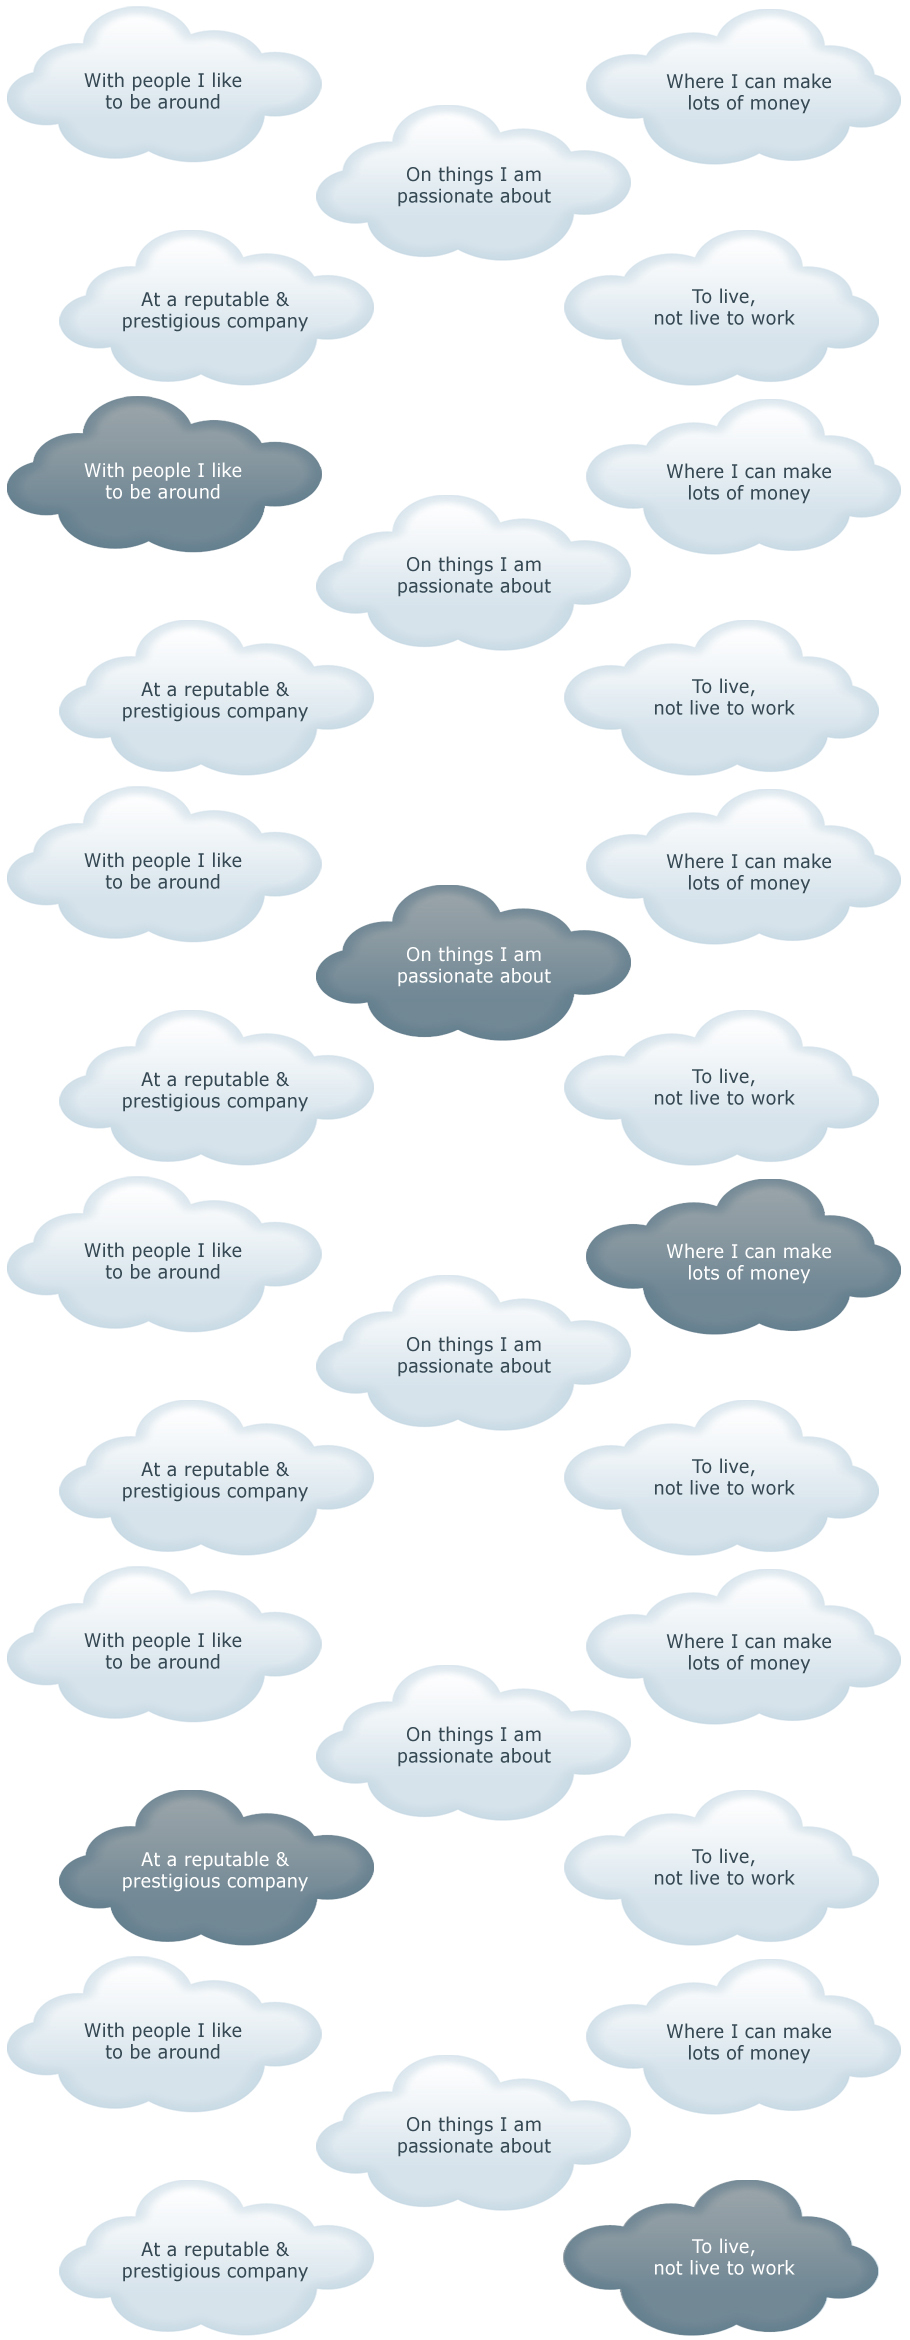
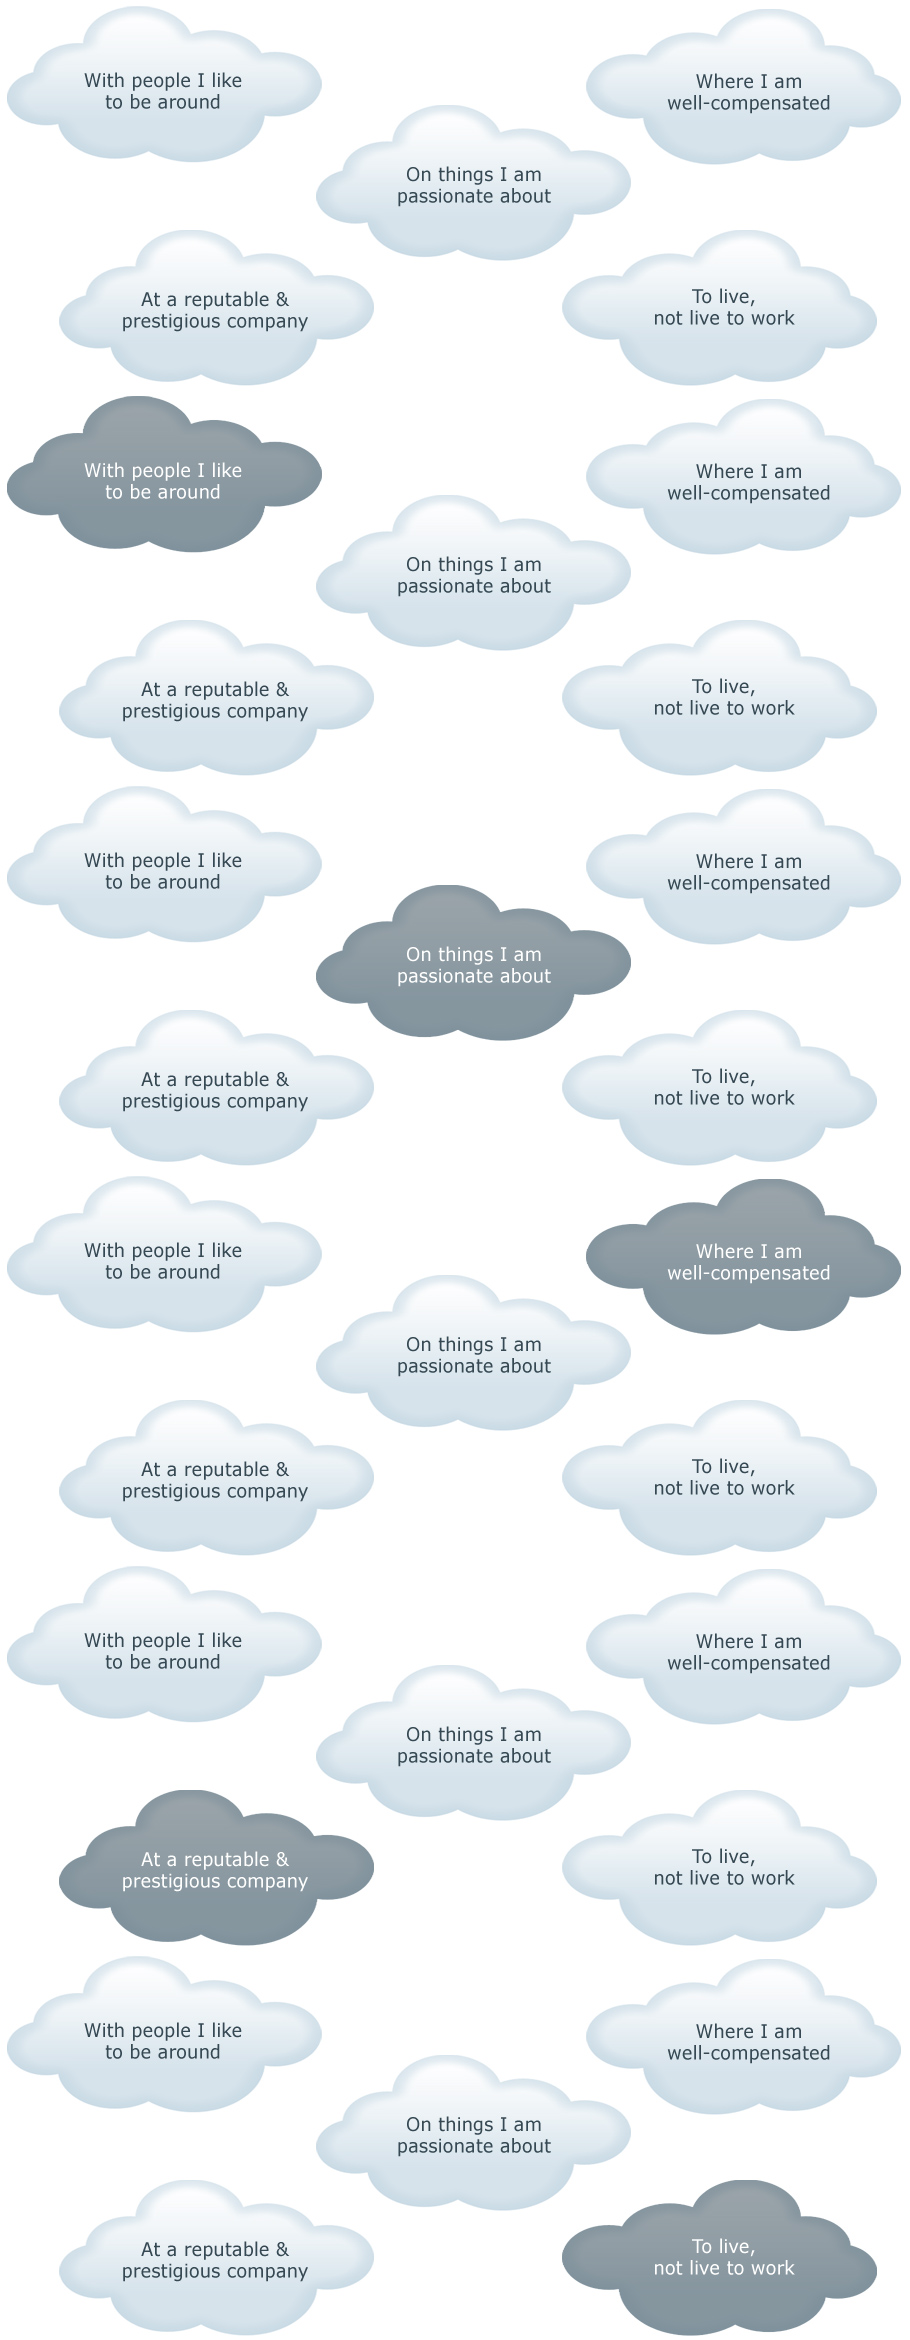
Fixed typos in the survey and added the form for mailchimp to the student ambassador page

diff --git a/application/views/pages/_ambassadors.php b/application/views/pages/_ambassadors.php
@@ -8,6 +8,14 @@
 		$(this).animate({backgroundColor: '#e9b60b', color: '#1D2A33'}, 200);
 		}
 	);
+	$("#mc_embed_signup .button").hover(
+		function () {
+		$(this).animate({backgroundColor: '#27c339', color: '#fff'}, 200);
+		},
+		function () {
+		$(this).animate({backgroundColor: '#e9b60b', color: '#1D2A33'}, 200);
+		}
+	);
     });
 </script>
 <div id="ambassadors">
@@ -28,7 +36,265 @@
 				<li>Obtain references for future job applications</li>
 				<li>Be a part of Emplayo's Student Ambassador Network</li>
 			</ul>
-			<a id="button" href="/contact">Apply</a>
-		</div>		
+			<!-- <a id="button" href="/contact">Apply</a> -->
+		</div>
+		
+		<!-- Begin MailChimp Signup Form -->
+		<link href="//cdn-images.mailchimp.com/embedcode/classic-081711.css" rel="stylesheet" type="text/css">
+		<style type="text/css">
+			#mc_embed_signup{background:#fff; clear:left; font:14px Helvetica,Arial,sans-serif; margin: 20px 355px 0 85px;}
+			#mc_embed_signup div{margin-top: 0px !important;}
+			#mc_embed_signup .button{
+				background-color: #E9B60B;
+				color: #1D2A33;
+				display: block;
+				font-size: 30px;
+				height: 60px;
+				text-align: center;
+				width: 200px;
+				cursor: pointer;
+				-moz-border-radius: 10px;
+				-webkit-border-radius: 10px;
+				border-radius: 10px;	
+			}
+			/* Add your own MailChimp form style overrides in your site stylesheet or in this style block.
+			   We recommend moving this block and the preceding CSS link to the HEAD of your HTML file. */
+		</style>
+		<div id="mc_embed_signup">
+		<form action="http://emplayo.us3.list-manage.com/subscribe/post?u=28bd9f715aa97b4488567d729&amp;id=c666d02534" method="post" id="mc-embedded-subscribe-form" name="mc-embedded-subscribe-form" class="validate" target="_blank" novalidate>
+			<h2>Fill out below to apply:</h2>
+		<div class="indicates-required"><span class="asterisk">*</span> indicates required</div>
+		<div class="mc-field-group">
+			<label for="mce-EMAIL">Email Address  <span class="asterisk">*</span>
+		</label>
+			<input type="email" value="" name="EMAIL" class="required email" id="mce-EMAIL">
+		</div>
+		<div class="mc-field-group">
+			<label for="mce-FNAME">First Name  <span class="asterisk">*</span>
+		</label>
+			<input type="text" value="" name="FNAME" class="required" id="mce-FNAME">
+		</div>
+		<div class="mc-field-group">
+			<label for="mce-LNAME">Last Name  <span class="asterisk">*</span>
+		</label>
+			<input type="text" value="" name="LNAME" class="required" id="mce-LNAME">
+		</div>
+		<div class="mc-field-group">
+			<label for="mce-UNIVERSITY">University / College  <span class="asterisk">*</span>
+		</label>
+			<input type="text" value="" name="UNIVERSITY" class="required" id="mce-UNIVERSITY">
+		</div>
+		<div class="mc-field-group">
+			<label for="mce-ORG">Student Group / Organization </label>
+			<input type="text" value="" name="ORG" class="" id="mce-ORG">
+		</div>
+		<div class="mc-field-group input-group">
+		    <strong>Email Format </strong>
+		    <ul><li><input type="radio" value="html" name="EMAILTYPE" id="mce-EMAILTYPE-0"><label for="mce-EMAILTYPE-0">html</label></li>
+		<li><input type="radio" value="text" name="EMAILTYPE" id="mce-EMAILTYPE-1"><label for="mce-EMAILTYPE-1">text</label></li>
+		</ul>
+		</div>
+			<div id="mce-responses" class="clear">
+				<div class="response" id="mce-error-response" style="display:none"></div>
+				<div class="response" id="mce-success-response" style="display:none"></div>
+			</div>    <!-- real people should not fill this in and expect good things - do not remove this or risk form bot signups-->
+		    <div style="position: absolute; left: -5000px;"><input type="text" name="b_28bd9f715aa97b4488567d729_c666d02534" value=""></div>
+			<div class="clear"><input type="submit" value="Apply" name="subscribe" id="mc-embedded-subscribe" class="button"></div>
+		</form>
+		</div>
+		<script type="text/javascript">
+		var fnames = new Array();var ftypes = new Array();fnames[0]='EMAIL';ftypes[0]='email';fnames[1]='FNAME';ftypes[1]='text';fnames[2]='LNAME';ftypes[2]='text';fnames[3]='UNIVERSITY';ftypes[3]='text';fnames[4]='ORG';ftypes[4]='text';
+		try {
+		    var jqueryLoaded=jQuery;
+		    jqueryLoaded=true;
+		} catch(err) {
+		    var jqueryLoaded=false;
+		}
+		var head= document.getElementsByTagName('head')[0];
+		if (!jqueryLoaded) {
+		    var script = document.createElement('script');
+		    script.type = 'text/javascript';
+		    script.src = '//ajax.googleapis.com/ajax/libs/jquery/1.4.4/jquery.min.js';
+		    head.appendChild(script);
+		    if (script.readyState && script.onload!==null){
+			script.onreadystatechange= function () {
+			      if (this.readyState == 'complete') mce_preload_check();
+			}    
+		    }
+		}
+
+		var err_style = '';
+		try{
+		    err_style = mc_custom_error_style;
+		} catch(e){
+		    err_style = '#mc_embed_signup input.mce_inline_error{border-color:#6B0505;} #mc_embed_signup div.mce_inline_error{margin: 0 0 1em 0; padding: 5px 10px; background-color:#6B0505; font-weight: bold; z-index: 1; color:#fff;}';
+		}
+		var head= document.getElementsByTagName('head')[0];
+		var style= document.createElement('style');
+		style.type= 'text/css';
+		if (style.styleSheet) {
+		  style.styleSheet.cssText = err_style;
+		} else {
+		  style.appendChild(document.createTextNode(err_style));
+		}
+		head.appendChild(style);
+		setTimeout('mce_preload_check();', 250);
+
+		var mce_preload_checks = 0;
+		function mce_preload_check(){
+		    if (mce_preload_checks>40) return;
+		    mce_preload_checks++;
+		    try {
+			var jqueryLoaded=jQuery;
+		    } catch(err) {
+			setTimeout('mce_preload_check();', 250);
+			return;
+		    }
+		    var script = document.createElement('script');
+		    script.type = 'text/javascript';
+		    script.src = 'http://downloads.mailchimp.com/js/jquery.form-n-validate.js';
+		    head.appendChild(script);
+		    try {
+			var validatorLoaded=jQuery("#fake-form").validate({});
+		    } catch(err) {
+			setTimeout('mce_preload_check();', 250);
+			return;
+		    }
+		    mce_init_form();
+		}
+		function mce_init_form(){
+		    jQuery(document).ready( function($) {
+		      var options = { errorClass: 'mce_inline_error', errorElement: 'div', onkeyup: function(){}, onfocusout:function(){}, onblur:function(){}  };
+		      var mce_validator = $("#mc-embedded-subscribe-form").validate(options);
+		      $("#mc-embedded-subscribe-form").unbind('submit');//remove the validator so we can get into beforeSubmit on the ajaxform, which then calls the validator
+		      options = { url: 'http://emplayo.us3.list-manage1.com/subscribe/post-json?u=28bd9f715aa97b4488567d729&id=c666d02534&c=?', type: 'GET', dataType: 'json', contentType: "application/json; charset=utf-8",
+				    beforeSubmit: function(){
+					$('#mce_tmp_error_msg').remove();
+					$('.datefield','#mc_embed_signup').each(
+					    function(){
+						var txt = 'filled';
+						var fields = new Array();
+						var i = 0;
+						$(':text', this).each(
+						    function(){
+							fields[i] = this;
+							i++;
+						    });
+						$(':hidden', this).each(
+						    function(){
+							var bday = false;
+							if (fields.length == 2){
+							    bday = true;
+							    fields[2] = {'value':1970};//trick birthdays into having years
+							}
+							if ( fields[0].value=='MM' && fields[1].value=='DD' && (fields[2].value=='YYYY' || (bday && fields[2].value==1970) ) ){
+								this.value = '';
+											    } else if ( fields[0].value=='' && fields[1].value=='' && (fields[2].value=='' || (bday && fields[2].value==1970) ) ){
+								this.value = '';
+											    } else {
+												if (/\[day\]/.test(fields[0].name)){
+								this.value = fields[1].value+'/'+fields[0].value+'/'+fields[2].value;									        
+												} else {
+								this.value = fields[0].value+'/'+fields[1].value+'/'+fields[2].value;
+								}
+							    }
+						    });
+					    });
+					$('.phonefield-us','#mc_embed_signup').each(
+					    function(){
+						var fields = new Array();
+						var i = 0;
+						$(':text', this).each(
+						    function(){
+							fields[i] = this;
+							i++;
+						    });
+						$(':hidden', this).each(
+						    function(){
+							if ( fields[0].value.length != 3 || fields[1].value.length!=3 || fields[2].value.length!=4 ){
+								this.value = '';
+											    } else {
+												this.value = 'filled';
+							    }
+						    });
+					    });
+					return mce_validator.form();
+				    }, 
+				    success: mce_success_cb
+				};
+		      $('#mc-embedded-subscribe-form').ajaxForm(options);
+		      
+		      
+		    });
+		}
+		function mce_success_cb(resp){
+		    $('#mce-success-response').hide();
+		    $('#mce-error-response').hide();
+		    if (resp.result=="success"){
+			$('#mce-'+resp.result+'-response').show();
+			$('#mce-'+resp.result+'-response').html(resp.msg);
+			$('#mc-embedded-subscribe-form').each(function(){
+			    this.reset();
+			});
+		    } else {
+			var index = -1;
+			var msg;
+			try {
+			    var parts = resp.msg.split(' - ',2);
+			    if (parts[1]==undefined){
+				msg = resp.msg;
+			    } else {
+				i = parseInt(parts[0]);
+				if (i.toString() == parts[0]){
+				    index = parts[0];
+				    msg = parts[1];
+				} else {
+				    index = -1;
+				    msg = resp.msg;
+				}
+			    }
+			} catch(e){
+			    index = -1;
+			    msg = resp.msg;
+			}
+			try{
+			    if (index== -1){
+				$('#mce-'+resp.result+'-response').show();
+				$('#mce-'+resp.result+'-response').html(msg);            
+			    } else {
+				err_id = 'mce_tmp_error_msg';
+				html = '<div id="'+err_id+'" style="'+err_style+'"> '+msg+'</div>';
+				
+				var input_id = '#mc_embed_signup';
+				var f = $(input_id);
+				if (ftypes[index]=='address'){
+				    input_id = '#mce-'+fnames[index]+'-addr1';
+				    f = $(input_id).parent().parent().get(0);
+				} else if (ftypes[index]=='date'){
+				    input_id = '#mce-'+fnames[index]+'-month';
+				    f = $(input_id).parent().parent().get(0);
+				} else {
+				    input_id = '#mce-'+fnames[index];
+				    f = $().parent(input_id).get(0);
+				}
+				if (f){
+				    $(f).append(html);
+				    $(input_id).focus();
+				} else {
+				    $('#mce-'+resp.result+'-response').show();
+				    $('#mce-'+resp.result+'-response').html(msg);
+				}
+			    }
+			} catch(e){
+			    $('#mce-'+resp.result+'-response').show();
+			    $('#mce-'+resp.result+'-response').html(msg);
+			}
+		    }
+		}
+
+		</script>
+		<!--End mc_embed_signup-->
+		
+		
 	</div>
 </div>

diff --git a/application/views/pages/_criteria.php b/application/views/pages/_criteria.php
@@ -132,9 +132,10 @@
 					generateHints(currentQuestion, questionTypeHints);
 					$('div.hints').show().css({opacity: 0, marginTop: "-66px"}).animate({
 					    opacity: 1,
-					    marginTop: "-61px",
+					    marginTop: "-80px",
 					    }, 500 );
 				};
+				
 				questionType = $('div#'+currentQuestion).find('input').attr('type');
 				$('div#'+currentQuestion).show();
 				if(currentQuestion==18){
@@ -839,6 +840,9 @@
 			case "textChoice":
 				hint="<div id='textChoice'>enter text in textbox</div>";
 				break;
+			case "selectChoice":
+				hint="<div id='selectChoice'>select from drop-down</div>";
+			break;
 			default:
 				hint="please select an answer";
 		}
@@ -1299,7 +1303,7 @@
 					<li id="q4_8"><span class="ui-icon ui-icon-grip-dotted-vertical"></span>Paid Sabbatical</li>
 					<li id="q4_5"><span class="ui-icon ui-icon-grip-dotted-vertical"></span>Dependent Care Support</li>
 					<li id="q4_4"><span class="ui-icon ui-icon-grip-dotted-vertical"></span>Fitness Facilities / Membership</li>
-					<li id="q4_6"><span class="ui-icon ui-icon-grip-dotted-vertical"></span>Telecommunting / Alternative Work Sites</li>
+					<li id="q4_6"><span class="ui-icon ui-icon-grip-dotted-vertical"></span>Telecommuting / Alternative Work Sites</li>
 					<li id="q4_9"><span class="ui-icon ui-icon-grip-dotted-vertical"></span>Compressed Workweek / Flexible Work Schedule</li>
 					
 				</ul>
@@ -1529,7 +1533,7 @@
 				<div id="q13_flag" style="display: none;"></div>
 			</div>
 			<div id="14" class="questions"  name="singleChoice">
-				<div><div class="bulb" onclick="modal('#modal_q14','600','35');"></div><font class="blue">Which of the following is most effective role of a supervisor:</font></div>
+				<div><div class="bulb" onclick="modal('#modal_q14','600','35');"></div><font class="blue">Which of the following is the most effective role of a supervisor?</font></div>
 				<div id="supervisor" class="clear">
 					<img id="supervisorOverlay" src="<?php echo base_url() ?>assets/images/imgOverlay.png" alt="cloud" usemap="#supervisorCloud" />
 					<map name="supervisorCloud" id="supervisorCloud">
@@ -1632,7 +1636,7 @@
 				</div>
 				<div id="q19_flag" style="display: none;"></div>
 			</div>
-			<div id="20" class="questions q20"  name="textChoice">
+			<div id="20" class="questions q20"  name="selectChoice">
 				<div><div class="bulb" onclick="modal('#modal_q20','600','35');"></div><font class="blue">What's your education and work history?</font></div>
 				<div id="history" class="clear">
 					<div>
